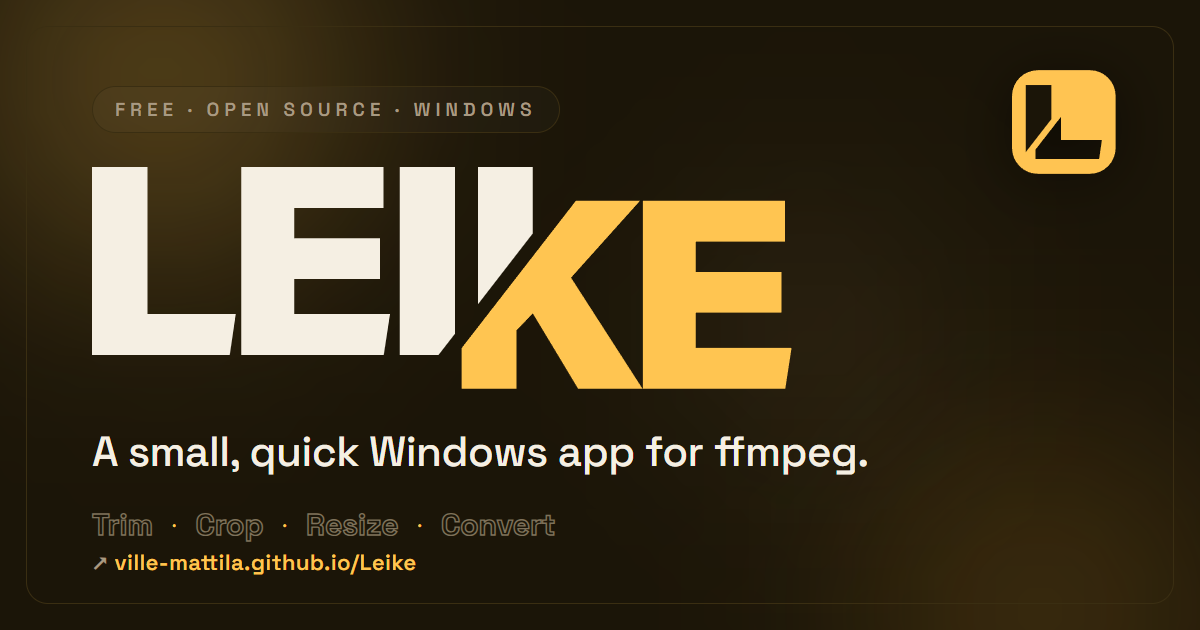
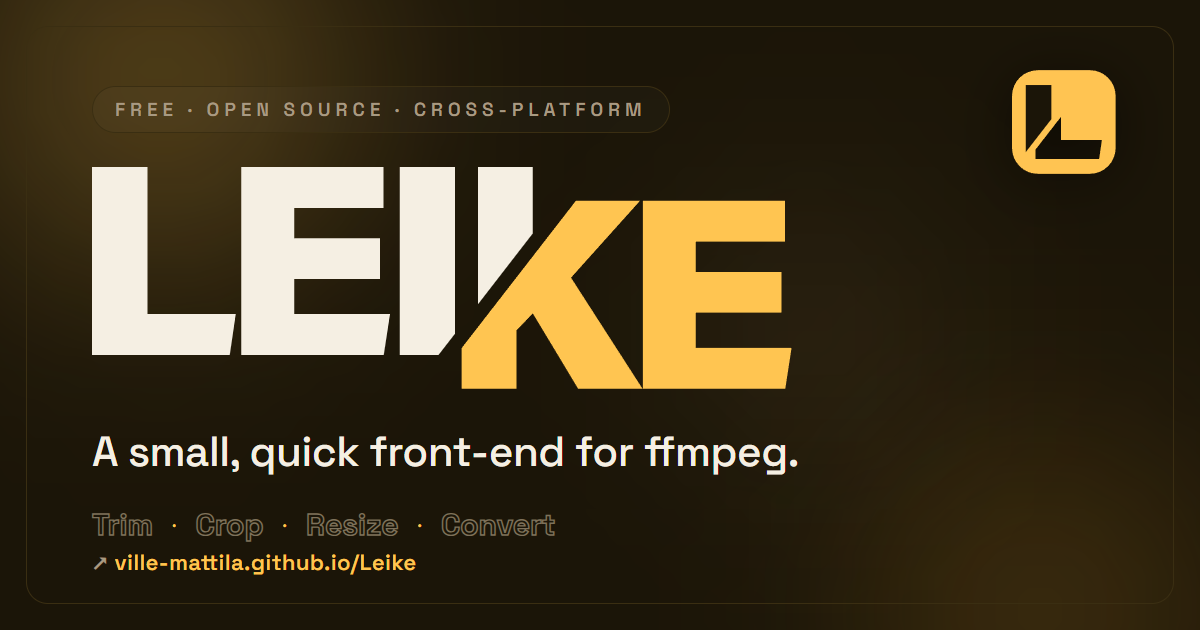
tweak: "front-end for ffmpeg" tagline; cross-platform OG card
- Hero, README, and OG image now say "a small, quick front-end for ffmpeg"
- Re-render the OG image; its pill now reads CROSS-PLATFORM to match the hero

Changed region(s): [[0.3083, 0.6937, 0.74, 0.754], [0.3392, 0.1508, 0.555, 0.2111]]

diff --git a/site/og.html b/site/og.html
@@ -70,7 +70,7 @@
     <img class="icon" src="assets/leike-icon.svg" alt="" />
 
     <div class="pad">
-      <div class="pill">Free · Open source · Windows</div>
+      <div class="pill">Free · Open source · Cross-platform</div>
       <div class="wm">
         <svg viewBox="0 0 926 294" xmlns="http://www.w3.org/2000/svg" aria-label="Leike">
           <path class="wm-gold" d="M640.204,44.59L725.055,44.59L633.701,146.415L728.305,293.376L643.089,293.376L583.15,193.717L561.485,216.104L561.485,293.376L488.907,293.376L488.907,239.644L640.204,44.59ZM912.097,138.832L912.097,192.634L798.716,192.634L798.716,239.213L925.457,239.213L917.152,293.376L728.666,293.376L728.666,44.59L916.791,44.59L916.791,98.752L798.716,98.752L798.716,138.832L912.097,138.832Z"/>
@@ -79,7 +79,7 @@
           </g>
         </svg>
       </div>
-      <div class="tag">A small, quick Windows app for ffmpeg.</div>
+      <div class="tag">A small, quick front-end for ffmpeg.</div>
       <div class="verbs">
         <span>Trim</span><i>·</i><span>Crop</span><i>·</i><span>Resize</span><i>·</i><span>Convert</span>
       </div>

diff --git a/site/index.html b/site/index.html
@@ -94,7 +94,7 @@
           </span>
         </h1>
 
-        <p class="lede" data-hero="lede" data-split>A small, quick Windows app for ffmpeg.</p>
+        <p class="lede" data-hero="lede" data-split>A small, quick front-end for ffmpeg.</p>
         <p class="sub" data-hero="sub">Drag in a video — crop, trim, resize, transform, adjust, overlay, and convert it. Then export a clip that plays everywhere.</p>
 
         <div class="hero-cta" data-hero="cta">

diff --git a/README.md b/README.md
@@ -1,6 +1,6 @@
 # Leike
 
-**Leike** (Finnish for *a clip*) — a small, quick Windows app for ffmpeg.
+**Leike** (Finnish for *a clip*) — a small, quick front-end for ffmpeg.
 **Drag in a video; crop, trim, resize, transform, adjust, overlay, and
 convert it — then export.** Defaults to a widely compatible H.264 `.mp4`,
 with WebM, GIF, and MP3 a click away.